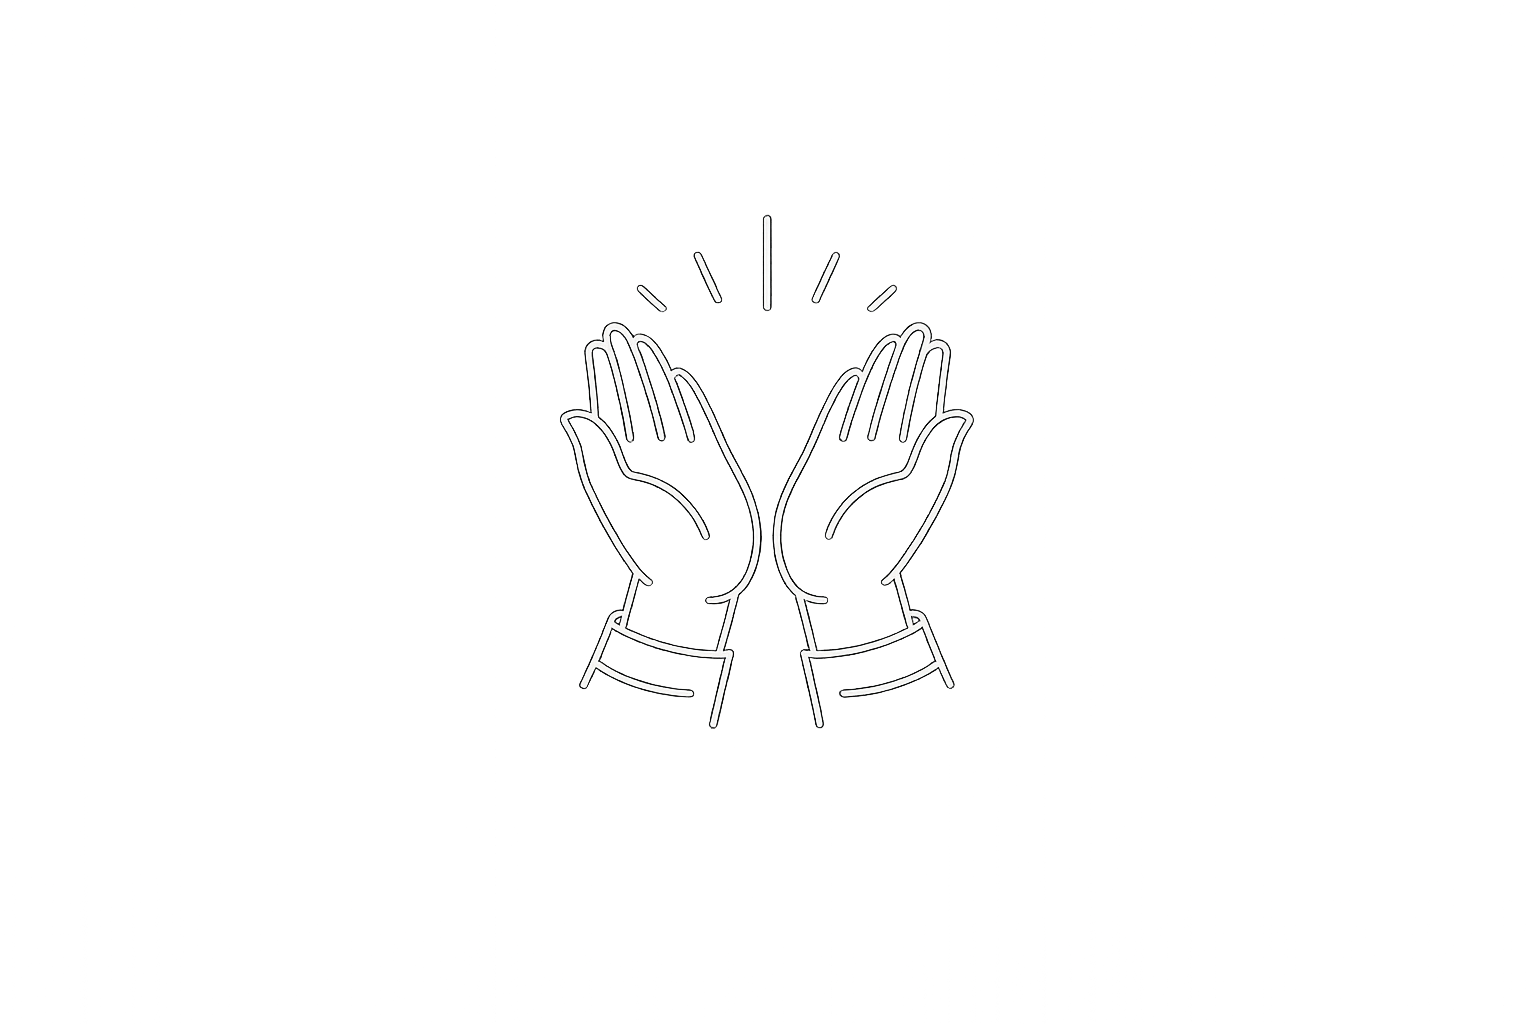
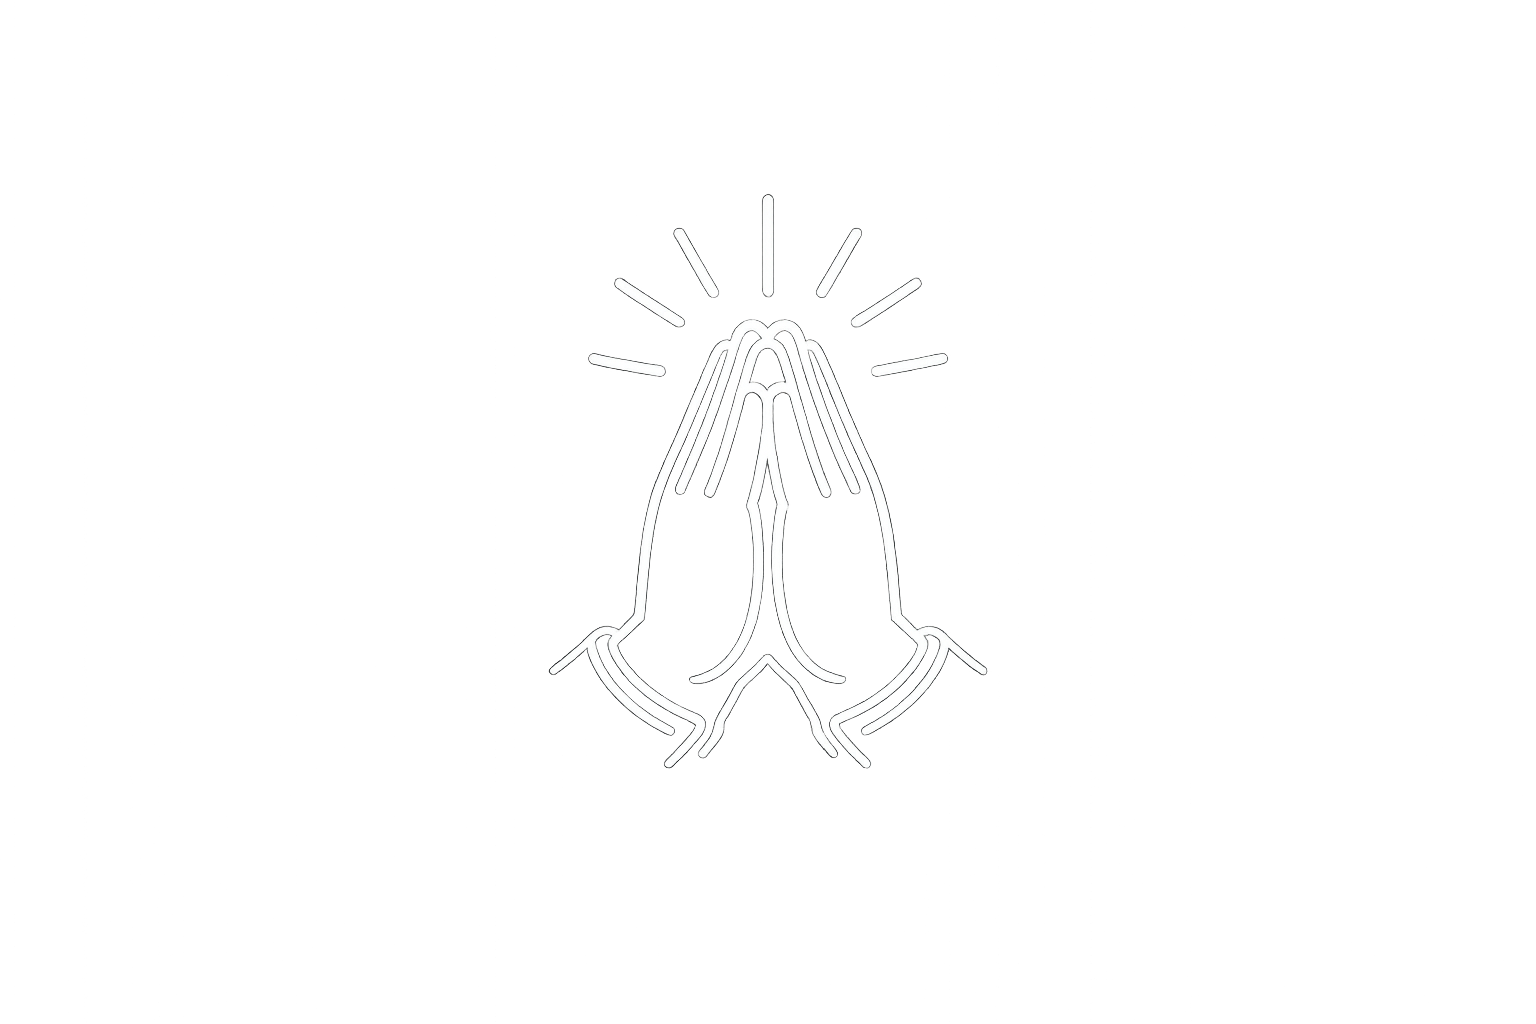
push updates

Changed region(s): [[0.375, 0.2812, 0.625, 0.75], [0.5312, 0.25, 0.5625, 0.2812], [0.4375, 0.25, 0.4688, 0.2812]]

diff --git a/src/styles/global.css b/src/styles/global.css
@@ -411,8 +411,8 @@ main {
   text-transform: uppercase;
   color: var(--ink);
   text-decoration: underline;
-  text-decoration-thickness: 0.12rem;
-  text-underline-offset: 0.26rem;
+  text-decoration-thickness: 0.15rem;
+  text-underline-offset: 0.32rem;
 }
 
 .editorial-link::after {
@@ -434,8 +434,8 @@ main {
   position: relative;
   background: rgba(255, 255, 255, 0.96);
   border: 1px solid rgba(13, 18, 25, 0.04);
-  border-radius: var(--radius-lg);
-  box-shadow: 0 20px 42px rgba(6, 10, 16, 0.08);
+  border-radius: 0.4rem;
+  box-shadow: 0 14px 28px rgba(6, 10, 16, 0.06);
   transition:
     transform var(--transition),
     box-shadow var(--transition),
@@ -443,9 +443,9 @@ main {
 }
 
 .card:hover {
-  transform: translateY(-3px);
+  transform: translateY(-2px);
   border-color: rgba(13, 18, 25, 0.08);
-  box-shadow: 0 30px 60px rgba(6, 10, 16, 0.12);
+  box-shadow: 0 22px 42px rgba(6, 10, 16, 0.1);
 }
 
 .card-dark {
@@ -667,7 +667,7 @@ main {
   }
 
   .card {
-    border-radius: 1.1rem;
+    border-radius: 0.35rem;
   }
 }
 
